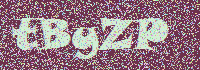
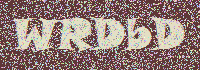
captcha demi implanter

diff --git a/TP1/SignUp.aspx.designer.cs b/TP1/SignUp.aspx.designer.cs
@@ -20,5 +20,77 @@ namespace TP1 {
         /// Pour modifier, déplacez la déclaration de champ du fichier de concepteur dans le fichier code-behind.
         /// </remarks>
         protected global::System.Web.UI.WebControls.FileUpload FileUpload1;
+        
+        /// <summary>
+        /// Contrôle ScriptManager1.
+        /// </summary>
+        /// <remarks>
+        /// Champ généré automatiquement.
+        /// Pour modifier, déplacez la déclaration de champ du fichier de concepteur dans le fichier code-behind.
+        /// </remarks>
+        protected global::System.Web.UI.ScriptManager ScriptManager1;
+        
+        /// <summary>
+        /// Contrôle PN_Captcha.
+        /// </summary>
+        /// <remarks>
+        /// Champ généré automatiquement.
+        /// Pour modifier, déplacez la déclaration de champ du fichier de concepteur dans le fichier code-behind.
+        /// </remarks>
+        protected global::System.Web.UI.UpdatePanel PN_Captcha;
+        
+        /// <summary>
+        /// Contrôle RegenarateCaptcha.
+        /// </summary>
+        /// <remarks>
+        /// Champ généré automatiquement.
+        /// Pour modifier, déplacez la déclaration de champ du fichier de concepteur dans le fichier code-behind.
+        /// </remarks>
+        protected global::System.Web.UI.WebControls.ImageButton RegenarateCaptcha;
+        
+        /// <summary>
+        /// Contrôle IMGCaptcha.
+        /// </summary>
+        /// <remarks>
+        /// Champ généré automatiquement.
+        /// Pour modifier, déplacez la déclaration de champ du fichier de concepteur dans le fichier code-behind.
+        /// </remarks>
+        protected global::System.Web.UI.WebControls.Image IMGCaptcha;
+        
+        /// <summary>
+        /// Contrôle TB_Captcha.
+        /// </summary>
+        /// <remarks>
+        /// Champ généré automatiquement.
+        /// Pour modifier, déplacez la déclaration de champ du fichier de concepteur dans le fichier code-behind.
+        /// </remarks>
+        protected global::System.Web.UI.WebControls.TextBox TB_Captcha;
+        
+        /// <summary>
+        /// Contrôle CV_Captcha.
+        /// </summary>
+        /// <remarks>
+        /// Champ généré automatiquement.
+        /// Pour modifier, déplacez la déclaration de champ du fichier de concepteur dans le fichier code-behind.
+        /// </remarks>
+        protected global::System.Web.UI.WebControls.CustomValidator CV_Captcha;
+        
+        /// <summary>
+        /// Contrôle BTN_Submit.
+        /// </summary>
+        /// <remarks>
+        /// Champ généré automatiquement.
+        /// Pour modifier, déplacez la déclaration de champ du fichier de concepteur dans le fichier code-behind.
+        /// </remarks>
+        protected global::System.Web.UI.WebControls.Button BTN_Submit;
+        
+        /// <summary>
+        /// Contrôle Subscribe_Validation.
+        /// </summary>
+        /// <remarks>
+        /// Champ généré automatiquement.
+        /// Pour modifier, déplacez la déclaration de champ du fichier de concepteur dans le fichier code-behind.
+        /// </remarks>
+        protected global::System.Web.UI.WebControls.ValidationSummary Subscribe_Validation;
     }
 }

diff --git a/TP1/SignUp.aspx.cs b/TP1/SignUp.aspx.cs
@@ -4,6 +4,9 @@ using System.Linq;
 using System.Web;
 using System.Web.UI;
 using System.Web.UI.WebControls;
+using System.Drawing;
+using System.Drawing.Imaging;
+
 
 namespace TP1
 {
@@ -11,7 +14,77 @@ namespace TP1
     {
         protected void Page_Load(object sender, EventArgs e)
         {
-
+            if (!Page.IsPostBack)
+            {
+                Session["captcha"] = BuildCaptcha();
+            }
         }
+
+        Random random = new Random();
+        char RandomChar()
+        {
+            // les lettres comportant des ambiguïtées ne sont pas dans la liste
+            // exmple: 0 et O ont été retirés
+            string chars = "abcdefghkmnpqrstuvwvxyzABCDEFGHKMNPQRSTUVWXYZ23456789";
+            return chars[random.Next(0, chars.Length)];
+        }
+
+        Color RandomColor(int min, int max)
+        {
+            return Color.FromArgb(255, random.Next(min, max), random.Next(min, max), random.Next(min, max));
+        }
+
+        string Captcha()
+        {
+            string captcha = "";
+
+            for (int i = 0; i < 5; i++)
+                captcha += RandomChar();
+            return captcha;//.ToLower();
+        }
+
+        string BuildCaptcha()
+        {
+            int width = 200;
+            int height = 70;
+            Bitmap bitmap = new Bitmap(width, height);
+            Graphics DC = Graphics.FromImage(bitmap);
+            SolidBrush brush = new SolidBrush(RandomColor(0, 127));
+            SolidBrush pen = new SolidBrush(RandomColor(172, 255));
+            DC.FillRectangle(brush, 0, 0, 200, 100);
+            Font font = new Font("Snap ITC", 32, FontStyle.Regular);
+            PointF location = new PointF(5f, 5f);
+            DC.TextRenderingHint = System.Drawing.Text.TextRenderingHint.ClearTypeGridFit;
+            string captcha = Captcha();
+            DC.DrawString(captcha, font, pen, location);
+
+            // noise generation
+            for (int i = 0; i < 5000; i++)
+            {
+                bitmap.SetPixel(random.Next(0, width), random.Next(0, height), RandomColor(127, 255));
+            }
+            bitmap.Save(Server.MapPath("Captcha.png"), ImageFormat.Png);
+            return captcha;
+        }
+
+        protected void RegenarateCaptcha_Click(object sender, ImageClickEventArgs e)
+        {
+            Session["captcha"] = BuildCaptcha();
+            // + DateTime.Now.ToString() pour forcer le fureteur recharger le fichier
+            IMGCaptcha.ImageUrl = "~/Captcha.png?ID=" + DateTime.Now.ToString();
+            PN_Captcha.Update();
+        }
+        protected void BTN_Submit_Click(object sender, EventArgs e)
+        {
+            if (Page.IsValid)
+            {
+                Session["message"] = "(Inscription réussie - complétez maintenant votre profil...)";
+                Response.Redirect("Profil.aspx");
+            }
+        }
+        protected void CV_Captcha_ServerValidate(object source, ServerValidateEventArgs args)
+        {
+            args.IsValid = (TB_Captcha.Text == (string)Session["captcha"]);
+        } 
     }
 }
